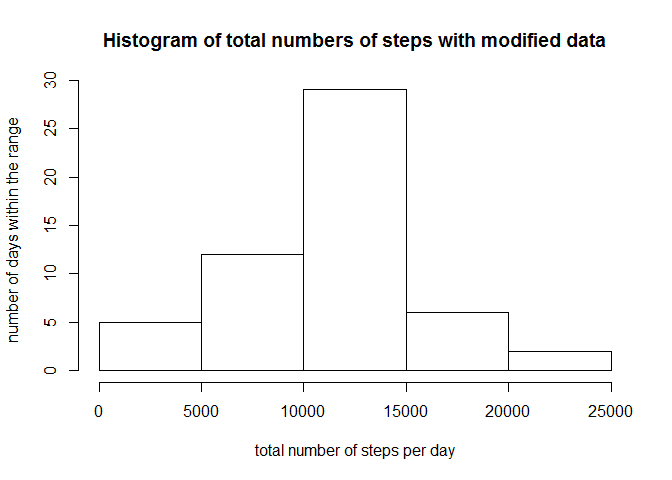
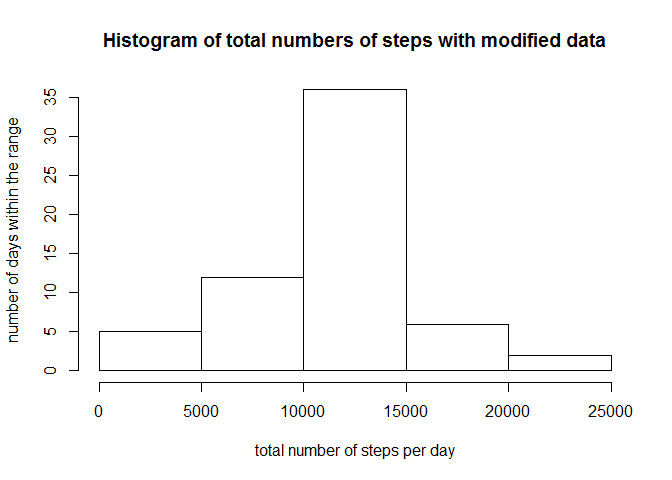
weekdays and weekend plot added, missing na replaced

diff --git a/PA1_template.html b/PA1_template.html
@@ -66,8 +66,13 @@ img {
 
 <div id="loading-and-preprocessing-the-data" class="section level2">
 <h2>Loading and preprocessing the data</h2>
-<p>First we read the csv file</p>
-<pre class="r"><code>setwd(&quot;activity&quot;)
+<p>First, the csv file is read and a first preprocess is done.</p>
+<pre class="r"><code>library(data.table)
+library(chron)
+library(ggplot2)
+library(plyr)
+
+setwd(&quot;activity&quot;)
 data &lt;- read.csv(&quot;activity.csv&quot;)
 dataDF &lt;- data.frame(data)</code></pre>
 </div>
@@ -110,39 +115,29 @@ cat(&quot;The 5 minute intervall with the maximal number of steps starts at &quo
 <p>Now comes a rather complicated way to assign the average of a given time intervall to an NA value.</p>
 <pre class="r"><code>index &lt;- is.na(dataDF$steps)
 averageDF &lt;- data.frame(averageSteps)
-library(data.table)
-setDT(averageDF, keep.rownames = TRUE)[]</code></pre>
-<pre><code>##        rn averageSteps
-##   1:    0    1.7169811
-##   2:    5    0.3396226
-##   3:   10    0.1320755
-##   4:   15    0.1509434
-##   5:   20    0.0754717
-##  ---                  
-## 284: 2335    4.6981132
-## 285: 2340    3.3018868
-## 286: 2345    0.6415094
-## 287: 2350    0.2264151
-## 288: 2355    1.0754717</code></pre>
-<pre class="r"><code>transform(averageDF, rn = as.numeric(rn))</code></pre>
-<pre><code>##        rn averageSteps
-##   1:    0    1.7169811
-##   2:    5    0.3396226
-##   3:   10    0.1320755
-##   4:   15    0.1509434
-##   5:   20    0.0754717
-##  ---                  
-## 284: 2335    4.6981132
-## 285: 2340    3.3018868
-## 286: 2345    0.6415094
-## 287: 2350    0.2264151
-## 288: 2355    1.0754717</code></pre>
-<pre class="r"><code>newDF&lt;- dataDF
-newDF$steps[index] &lt;- averageDF[averageDF$rn == newDF$interval[index]]$averageSteps</code></pre>
+setDT(averageDF, keep.rownames = TRUE)
+invisible(transform(averageDF, rn = as.numeric(rn)))
+newDF&lt;- dataDF
+newDF$steps[index] &lt;- averageDF[averageDF$rn == newDF$interval[index]]$averageSteps
+# replace all the na values, this is just a hacki way to do it. a while loop would be better...
+index2 &lt;- is.na(newDF$steps)
+newDF$steps[index2] &lt;- averageDF[averageDF$rn == newDF$interval[index2]]$averageSteps
+index3 &lt;- is.na(newDF$steps)
+newDF$steps[index3] &lt;- averageDF[averageDF$rn == newDF$interval[index3]]$averageSteps
+index4 &lt;- is.na(newDF$steps)
+newDF$steps[index4] &lt;- averageDF[averageDF$rn == newDF$interval[index4]]$averageSteps
+index5 &lt;- is.na(newDF$steps)
+newDF$steps[index5] &lt;- averageDF[averageDF$rn == newDF$interval[index5]]$averageSteps
+index6 &lt;- is.na(newDF$steps)
+newDF$steps[index6] &lt;- averageDF[averageDF$rn == newDF$interval[index6]]$averageSteps
+index7 &lt;- is.na(newDF$steps)
+newDF$steps[index7] &lt;- averageDF[averageDF$rn == newDF$interval[index7]]$averageSteps
+index8 &lt;- is.na(newDF$steps)
+newDF$steps[index8] &lt;- averageDF[averageDF$rn == newDF$interval[index8]]$averageSteps</code></pre>
 <p>Here comes the histogram</p>
 <pre class="r"><code>stepsNewDF&lt;- tapply(newDF$steps, newDF$date, FUN=sum)
 hist(stepsNewDF,  main = &quot;Histogram of total numbers of steps with modified data&quot;,ylab=&quot;number of days within the range&quot;, xlab=&quot;total number of steps per day&quot;)</code></pre>
[2 lines of base64/hex data omitted]
 <p>Computation of the new mean:</p>
 <pre class="r"><code>stepsNewDF &lt;- data.frame(stepsNewDF)
 newMean&lt;- colMeans(stepsNewDF, na.rm = TRUE)</code></pre>
@@ -153,11 +148,17 @@ newMean&lt;- colMeans(stepsNewDF, na.rm = TRUE)</code></pre>
 <pre><code>## stepsPerDay  stepsNewDF 
 ##    10766.19    10766.19</code></pre>
 <pre class="r"><code>c(median,newMedian)</code></pre>
-<pre><code>## [1] 10765.00 10765.59</code></pre>
+<pre><code>## [1] 10765.00 10766.19</code></pre>
 <p>Since we replaced the NAs with the mean values, the mean is preserved. But the median differs slightly, since the median and the mean are very close but not equal, the oparation of replacing NAs did affect the median.</p>
 </div>
 <div id="are-there-differences-in-activity-patterns-between-weekdays-and-weekends" class="section level2">
 <h2>Are there differences in activity patterns between weekdays and weekends?</h2>
+<p>Creating a factor variable.</p>
+<pre class="r"><code>newDF$workwe &lt;- ifelse(is.weekend(as.Date(newDF$date)), &quot;weekend&quot;,&quot;weekday&quot; )
+newDF &lt;- transform(newDF,workwe =factor(workwe))</code></pre>
+<p>And the plot that distinguishes weekend and weekdays.</p>
+<pre class="r"><code>qplot(interval, steps, data = newDF,stat = &quot;summary&quot;, fun.y = &quot;mean&quot;, facets = workwe~., main=&quot;average weekday weekend&quot;, ylab=&quot;Number of steps&quot;,geom = &quot;line&quot;)</code></pre>
[1 lines of base64/hex data omitted]
 </div>
 
 

diff --git a/PA1_template.md b/PA1_template.md
@@ -1,9 +1,13 @@
 # Reproducible Research: Peer Assessment 1
-
 ## Loading and preprocessing the data
-First we read the csv file
+First, the csv file is read and a first preprocess is done.
 
 ```r
+library(data.table)
+library(chron)
+library(ggplot2)
+library(plyr)
+
 setwd("activity")
 data <- read.csv("activity.csv")
 dataDF <- data.frame(data)
@@ -86,47 +90,25 @@ Now comes a rather complicated way to assign the average of a given time interva
 ```r
 index <- is.na(dataDF$steps)
 averageDF <- data.frame(averageSteps)
-library(data.table)
-setDT(averageDF, keep.rownames = TRUE)[]
-```
-
-```
-##        rn averageSteps
-##   1:    0    1.7169811
-##   2:    5    0.3396226
-##   3:   10    0.1320755
-##   4:   15    0.1509434
-##   5:   20    0.0754717
-##  ---                  
-## 284: 2335    4.6981132
-## 285: 2340    3.3018868
-## 286: 2345    0.6415094
-## 287: 2350    0.2264151
-## 288: 2355    1.0754717
-```
-
-```r
-transform(averageDF, rn = as.numeric(rn))
-```
-
-```
-##        rn averageSteps
-##   1:    0    1.7169811
-##   2:    5    0.3396226
-##   3:   10    0.1320755
-##   4:   15    0.1509434
-##   5:   20    0.0754717
-##  ---                  
-## 284: 2335    4.6981132
-## 285: 2340    3.3018868
-## 286: 2345    0.6415094
-## 287: 2350    0.2264151
-## 288: 2355    1.0754717
-```
-
-```r
+setDT(averageDF, keep.rownames = TRUE)
+invisible(transform(averageDF, rn = as.numeric(rn)))
 newDF<- dataDF
 newDF$steps[index] <- averageDF[averageDF$rn == newDF$interval[index]]$averageSteps
+# replace all the na values, this is just a hacki way to do it. a while loop would be better...
+index2 <- is.na(newDF$steps)
+newDF$steps[index2] <- averageDF[averageDF$rn == newDF$interval[index2]]$averageSteps
+index3 <- is.na(newDF$steps)
+newDF$steps[index3] <- averageDF[averageDF$rn == newDF$interval[index3]]$averageSteps
+index4 <- is.na(newDF$steps)
+newDF$steps[index4] <- averageDF[averageDF$rn == newDF$interval[index4]]$averageSteps
+index5 <- is.na(newDF$steps)
+newDF$steps[index5] <- averageDF[averageDF$rn == newDF$interval[index5]]$averageSteps
+index6 <- is.na(newDF$steps)
+newDF$steps[index6] <- averageDF[averageDF$rn == newDF$interval[index6]]$averageSteps
+index7 <- is.na(newDF$steps)
+newDF$steps[index7] <- averageDF[averageDF$rn == newDF$interval[index7]]$averageSteps
+index8 <- is.na(newDF$steps)
+newDF$steps[index8] <- averageDF[averageDF$rn == newDF$interval[index8]]$averageSteps
 ```
 
 Here comes the histogram
@@ -166,10 +148,24 @@ c(median,newMedian)
 ```
 
 ```
-## [1] 10765.00 10765.59
+## [1] 10765.00 10766.19
 ```
 
 Since we replaced the NAs with the mean values, the mean is preserved. But the median differs slightly, since the median and the mean are very close but not equal, the oparation of replacing NAs did affect the median. 
 
 
 ## Are there differences in activity patterns between weekdays and weekends?
+
+Creating a factor variable.
+
+```r
+newDF$workwe <- ifelse(is.weekend(as.Date(newDF$date)), "weekend","weekday" )
+newDF <- transform(newDF,workwe =factor(workwe))
+```
+And the plot that distinguishes weekend and weekdays.
+
+```r
+qplot(interval, steps, data = newDF,stat = "summary", fun.y = "mean", facets = workwe~., main="average weekday weekend", ylab="Number of steps",geom = "line")
+```
+
+![](PA1_template_files/figure-html/unnamed-chunk-6-1.png) 
